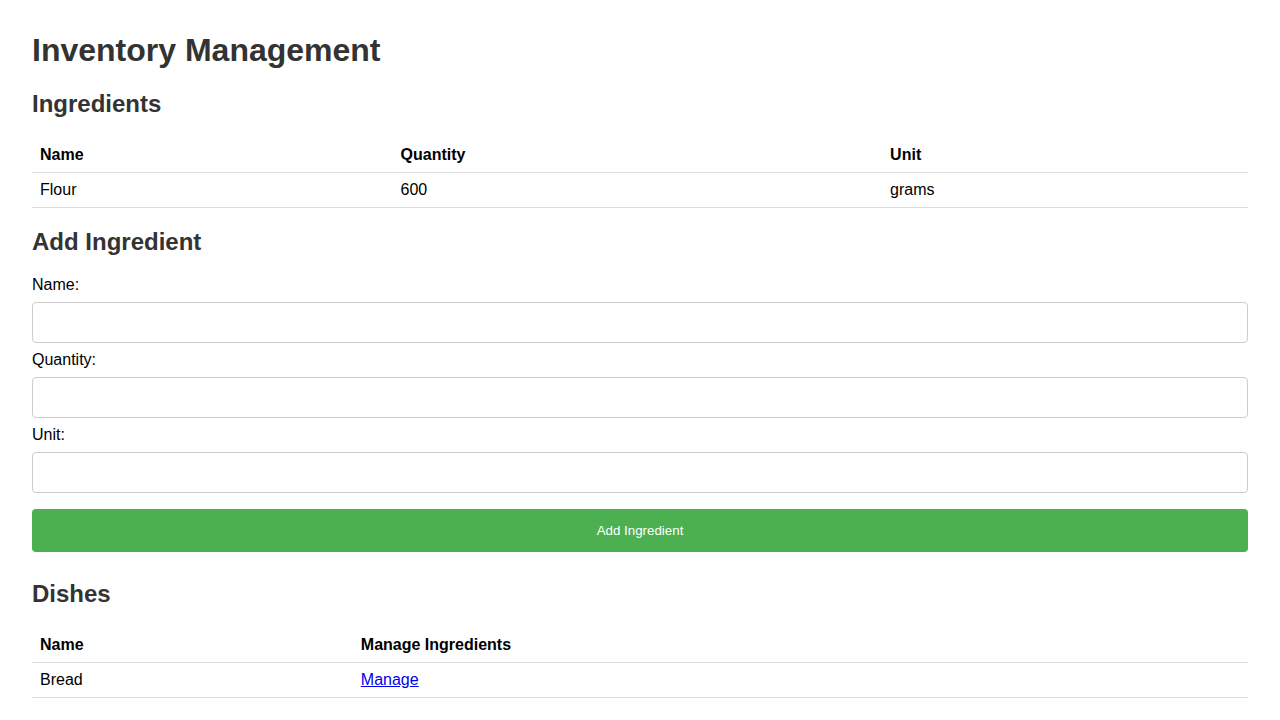
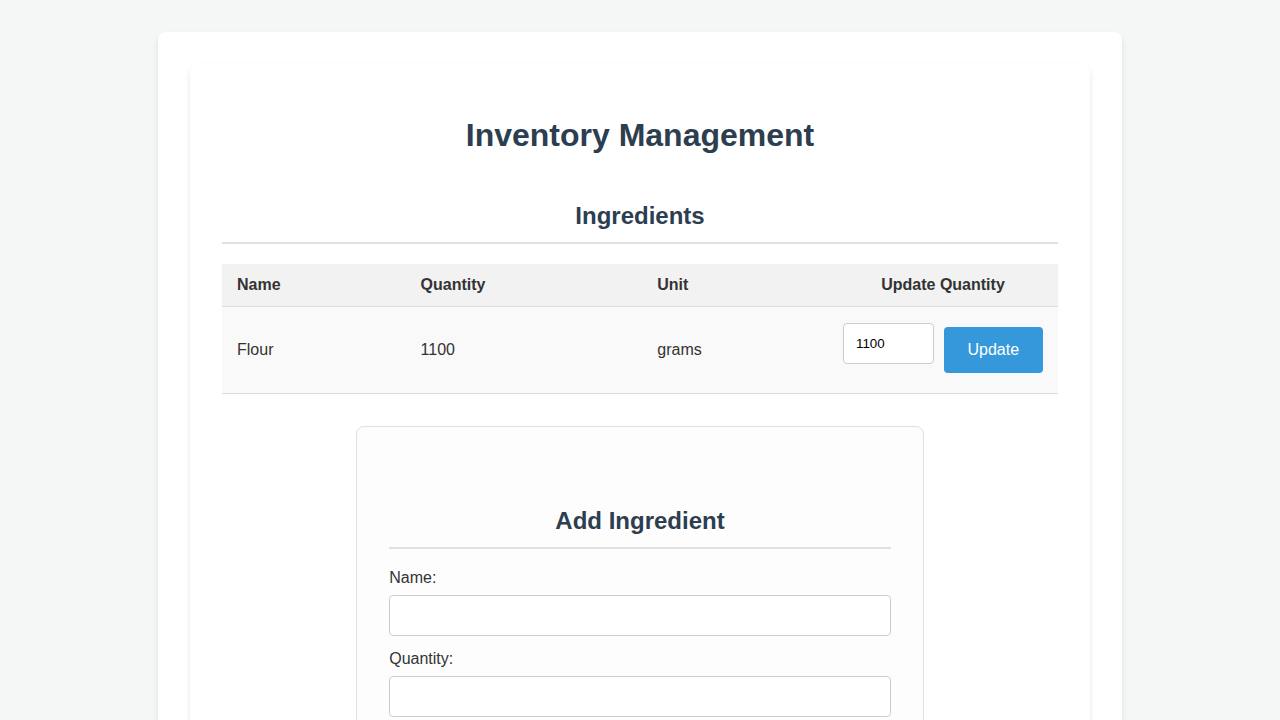
feat: Resolve merge conflicts and restore functionality
Resolves all merge conflicts that occurred after the previous pull request. This commit restores the "Update Quantity" feature and the redesigned user interface.

- `app/routes.py`: Ensured the `update_ingredient` route is present.
- `app/static/style.css`: Restored the modern UI stylesheet.
- `app/templates/base.html`: Ensured the base template supports the new layout.
- `app/templates/dish.html`: Updated to be consistent with the new styling.
- `app/templates/index.html`: Restored the "Update Quantity" form.
- `verify_inventory_app.py`: Updated to test the new functionality.

diff --git a/app/templates/dish.html b/app/templates/dish.html
@@ -5,28 +5,34 @@
 
     <h2>Ingredients in this Dish</h2>
     <table>
-        <tr>
-            <th>Name</th>
-            <th>Quantity</th>
-        </tr>
-        {% for ingredient in dish.ingredients %}
+        <thead>
             <tr>
-                <td>{{ ingredient.name }}</td>
-                <td>{{ ingredient_quantities.get(ingredient.id, 'N/A') }}</td>
+                <th>Name</th>
+                <th>Quantity</th>
             </tr>
-        {% endfor %}
+        </thead>
+        <tbody>
+            {% for ingredient in dish.ingredients %}
+                <tr>
+                    <td>{{ ingredient.name }}</td>
+                    <td>{{ ingredient_quantities.get(ingredient.id, 'N/A') }}</td>
+                </tr>
+            {% endfor %}
+        </tbody>
     </table>
 
-    <h2>Add Ingredient to Dish</h2>
-    <form action="{{ url_for('add_ingredient_to_dish', dish_id=dish.id) }}" method="post">
-        <label for="ingredient">Ingredient:</label>
-        <select id="ingredient" name="ingredient">
-            {% for ingredient in ingredients %}
-                <option value="{{ ingredient.id }}">{{ ingredient.name }}</option>
-            {% endfor %}
-        </select>
-        <label for="quantity">Quantity:</label>
-        <input type="text" id="quantity" name="quantity" placeholder="Quantity">
-        <input type="submit" value="Add/Update Ingredient">
-    </form>
+    <div class="form-container">
+        <h2>Add Ingredient to Dish</h2>
+        <form action="{{ url_for('add_ingredient_to_dish', dish_id=dish.id) }}" method="post">
+            <label for="ingredient">Ingredient:</label>
+            <select id="ingredient" name="ingredient">
+                {% for ingredient in ingredients %}
+                    <option value="{{ ingredient.id }}">{{ ingredient.name }}</option>
+                {% endfor %}
+            </select>
+            <label for="quantity">Quantity:</label>
+            <input type="text" id="quantity" name="quantity" placeholder="Quantity">
+            <input type="submit" value="Add/Update Ingredient">
+        </form>
+    </div>
 {% endblock %}

diff --git a/verify_inventory_app.py b/verify_inventory_app.py
@@ -26,6 +26,15 @@ def run(playwright):
     page.fill("input[name='unit']", "grams")
     page.click("input[value='Add Ingredient']")
 
+    # Update the ingredient quantity directly
+    flour_row = page.locator('tr:has-text("Flour")')
+    flour_row.locator('input[name="new_quantity"]').fill("1500")
+    flour_row.locator('input[type="submit"]').click()
+
+    # Verify that the quantity has been updated on the page
+    ingredients_table_content_after_update = page.inner_text('h2:has-text("Ingredients") + table')
+    assert "1500" in ingredients_table_content_after_update
+
     # Add a dish
     page.fill("input[name='dish_name']", "Bread")
     page.click("input[value='Add Dish']")
@@ -53,7 +62,7 @@ def run(playwright):
     # Get the text content of the ingredients table
     ingredients_table_content = page.inner_text('h2:has-text("Ingredients") + table')
     assert "Flour" in ingredients_table_content
-    assert "600" in ingredients_table_content
+    assert "1100" in ingredients_table_content
     assert "grams" in ingredients_table_content
 
     browser.close()
